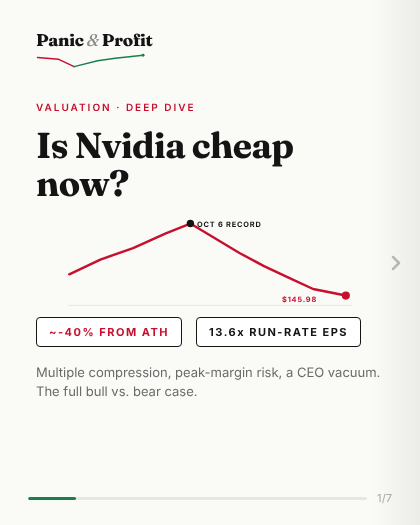
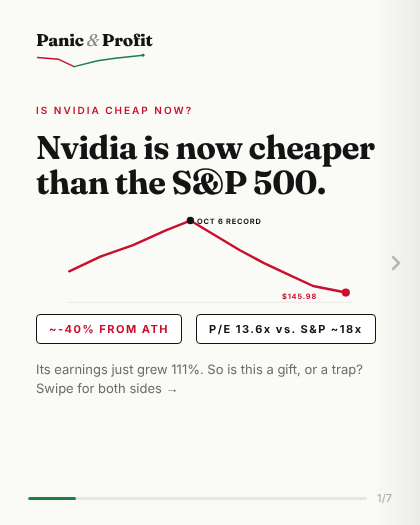
Nvidia carousel final: viral hooks, slides, story (Sat 18:00 Lisbon)
Claude-Session: https://claude.ai/code/session_01HEfkBjtX9jJLAwHVacHrK9

Changed region(s): [[0.0929, 0.4876, 0.8976, 0.7619], [0.0929, 0.2438, 0.8976, 0.5486], [0.0619, 0.1829, 0.4643, 0.2133]]

diff --git a/instagram/panic-and-profit/daily/2026-11-21-nvda/carousel.html b/instagram/panic-and-profit/daily/2026-11-21-nvda/carousel.html
@@ -24,19 +24,19 @@ body{background:#ECEBE6;font-family:'Inter',sans-serif;display:flex;justify-cont
 <div class="ig-header"><div class="ig-avatar">P<i>&amp;</i>P</div><div><div style="font-size:13px;font-weight:600;">panic.and.profit</div><div style="font-size:11px;color:#888;">Markets · Macro · Geopolitics</div></div></div>
 <div class="carousel-viewport"><div class="carousel-track"><div class="slide" style="background:#FAFAF7;">
 <div style="position:absolute;inset:0;padding:0 36px 52px;display:flex;flex-direction:column;justify-content:center;z-index:2;"><div style="position:absolute;top:30px;left:36px;"><div style="display:inline-block;"><div class="serif" style="font-size:17px;font-weight:800;color:#141414;letter-spacing:-0.3px;line-height:1;">Panic <span style="font-style:italic;font-weight:500;color:#8A8A8A;">&amp;</span> Profit</div><svg width="110" height="19" viewBox="0 0 300 42" fill="none" style="display:block;margin-top:4px;"><polyline points="4,10 62,15 104,35" stroke="#C8102E" stroke-width="4" stroke-linecap="round" stroke-linejoin="round"/><polyline points="104,35 168,19 216,12 292,4" stroke="#1B7F4B" stroke-width="4" stroke-linecap="round" stroke-linejoin="round"/><circle cx="292" cy="4" r="4" fill="#1B7F4B"/></svg></div></div>
-<div style="height:30px"></div><span class="sans" style="display:inline-block;font-size:10px;font-weight:600;letter-spacing:2px;color:#C8102E;margin-bottom:14px;">VALUATION · DEEP DIVE</span>
-<h1 class="serif" style="font-size:36px;font-weight:700;line-height:1.05;letter-spacing:-0.6px;color:#141414;">Is Nvidia cheap now?</h1>
+<div style="height:30px"></div><span class="sans" style="display:inline-block;font-size:10px;font-weight:600;letter-spacing:2px;color:#C8102E;margin-bottom:14px;">IS NVIDIA CHEAP NOW?</span>
+<h1 class="serif" style="font-size:33px;font-weight:700;line-height:1.05;letter-spacing:-0.6px;color:#141414;">Nvidia is now cheaper than the S&amp;P 500.</h1>
 <svg width="348" height="90" viewBox="0 0 348 110" fill="none" style="display:block;margin:14px 0 4px;">
 <line x1="0" y1="108" x2="348" y2="108" stroke="#E6E4DE" stroke-width="1"/>
 <polyline points="2,70 40,52 80,38 120,20 150,8 180,26 210,44 240,60 270,74 300,88 340,96" stroke="#C8102E" stroke-width="3" stroke-linecap="round" stroke-linejoin="round"/>
 <circle cx="150" cy="8" r="4.5" fill="#141414"/><circle cx="340" cy="96" r="5" fill="#C8102E"/>
 <text x="158" y="12" font-family="Inter" font-size="9" font-weight="700" fill="#141414" letter-spacing="1">OCT 6 RECORD</text>
 <text x="262" y="104" font-family="Inter" font-size="9" font-weight="700" fill="#C8102E" letter-spacing="1">$145.98</text></svg>
-<div style="display:flex;gap:8px;margin:6px 0 10px;"><span class="sans" style="display:inline-block;font-size:11px;font-weight:700;letter-spacing:1.5px;padding:7px 12px;border:1.5px solid #141414;border-radius:4px;background:#fff;color:#C8102E;margin:0 6px 6px 0;">~-40% FROM ATH</span><span class="sans" style="display:inline-block;font-size:11px;font-weight:700;letter-spacing:1.5px;padding:7px 12px;border:1.5px solid #141414;border-radius:4px;background:#fff;color:#141414;margin:0 6px 6px 0;">13.6x RUN-RATE EPS</span></div>
-<p class="sans" style="font-size:13px;color:#6B6B6B;line-height:1.5;">Multiple compression, peak-margin risk, a CEO vacuum. The full bull vs. bear case.</p></div>
+<div style="display:flex;gap:8px;margin:6px 0 10px;"><span class="sans" style="display:inline-block;font-size:11px;font-weight:700;letter-spacing:1.5px;padding:7px 12px;border:1.5px solid #141414;border-radius:4px;background:#fff;color:#C8102E;margin:0 6px 6px 0;">~-40% FROM ATH</span><span class="sans" style="display:inline-block;font-size:11px;font-weight:700;letter-spacing:1.5px;padding:7px 12px;border:1.5px solid #141414;border-radius:4px;background:#fff;color:#141414;margin:0 6px 6px 0;">P/E 13.6x vs. S&amp;P ~18x</span></div>
+<p class="sans" style="font-size:13px;color:#6B6B6B;line-height:1.5;">Its earnings just grew 111%. So is this a gift, or a trap? Swipe for both sides →</p></div>
 <div style="position:absolute;right:0;top:0;bottom:0;width:48px;z-index:9;display:flex;align-items:center;justify-content:center;background:linear-gradient(to right,transparent,rgba(0,0,0,0.06));"><svg width="24" height="24" viewBox="0 0 24 24" fill="none"><path d="M9 6l6 6-6 6" stroke="rgba(0,0,0,0.25)" stroke-width="2.5" stroke-linecap="round" stroke-linejoin="round"/></svg></div><div style="position:absolute;bottom:0;left:0;right:0;padding:16px 28px 20px;z-index:10;display:flex;align-items:center;gap:10px;"><div style="flex:1;height:3px;background:rgba(0,0,0,0.08);border-radius:2px;overflow:hidden;"><div style="height:100%;width:14.29%;background:#1B7F4B;border-radius:2px;"></div></div><span class="sans" style="font-size:11px;color:rgba(0,0,0,0.3);font-weight:500;">1/7</span></div></div><div class="slide" style="background:#FAFAF7;">
 <div style="position:absolute;inset:0;padding:0 36px 52px;display:flex;flex-direction:column;justify-content:flex-end;z-index:2;"><span class="sans" style="display:inline-block;font-size:10px;font-weight:600;letter-spacing:2px;color:#C8102E;margin-bottom:14px;">THE DRAWDOWN</span>
-<h2 class="serif" style="font-size:28px;font-weight:700;line-height:1.1;letter-spacing:-0.4px;color:#141414;margin-bottom:10px;">~$2 trillion of market cap gone in six weeks.</h2>
+<h2 class="serif" style="font-size:28px;font-weight:700;line-height:1.1;letter-spacing:-0.4px;color:#141414;margin-bottom:10px;">$2 trillion. Gone in six weeks.</h2>
 <div style="padding:10px 0;border-bottom:1px solid #E6E4DE;display:flex;justify-content:space-between;align-items:center;gap:12px;">
 <div><div class="sans" style="font-size:9px;font-weight:700;letter-spacing:1.5px;color:#8A8580;">CLOSE, THU NOV 19</div><div class="sans" style="font-size:11px;color:#6B6B6B;margin-top:2px;line-height:1.35;">New 52-week low. -3.3% on the day</div></div>
 <div class="serif" style="font-size:22px;font-weight:800;color:#C8102E;white-space:nowrap;">$145.98</div></div>
@@ -49,6 +49,7 @@ body{background:#ECEBE6;font-family:'Inter',sans-serif;display:flex;justify-cont
 <div style="padding:10px 0;border-bottom:1px solid #E6E4DE;display:flex;justify-content:space-between;align-items:center;gap:12px;">
 <div><div class="sans" style="font-size:9px;font-weight:700;letter-spacing:1.5px;color:#8A8580;">CATALYST 2</div><div class="sans" style="font-size:11px;color:#6B6B6B;margin-top:2px;line-height:1.35;">Can hyperscalers keep spending as free cash flow thins?</div></div>
 <div class="serif" style="font-size:22px;font-weight:800;color:#141414;white-space:nowrap;">Capex funding</div></div>
+<p class="sans" style="font-size:11.5px;font-weight:700;color:#C8102E;margin-top:10px;">But the numbers tell a different story →</p>
 <p class="sans" style="font-size:9px;color:#A09B95;margin-top:10px;">Sources: Motley Fool, TokenPost, Fortune, CNBC, Nvidia 8-K (SEC), Barclays via BigGo.</p></div>
 <div style="position:absolute;right:0;top:0;bottom:0;width:48px;z-index:9;display:flex;align-items:center;justify-content:center;background:linear-gradient(to right,transparent,rgba(0,0,0,0.06));"><svg width="24" height="24" viewBox="0 0 24 24" fill="none"><path d="M9 6l6 6-6 6" stroke="rgba(0,0,0,0.25)" stroke-width="2.5" stroke-linecap="round" stroke-linejoin="round"/></svg></div><div style="position:absolute;bottom:0;left:0;right:0;padding:16px 28px 20px;z-index:10;display:flex;align-items:center;gap:10px;"><div style="flex:1;height:3px;background:rgba(0,0,0,0.08);border-radius:2px;overflow:hidden;"><div style="height:100%;width:28.57%;background:#1B7F4B;border-radius:2px;"></div></div><span class="sans" style="font-size:11px;color:rgba(0,0,0,0.3);font-weight:500;">2/7</span></div></div><div class="slide" style="background:#FAFAF7;">
 <div style="position:absolute;inset:0;padding:0 36px 52px;display:flex;flex-direction:column;justify-content:flex-end;z-index:2;"><span class="sans" style="display:inline-block;font-size:10px;font-weight:600;letter-spacing:2px;color:#1B7F4B;margin-bottom:14px;">THE FUNDAMENTALS: Q3 FY27</span>
@@ -68,6 +69,7 @@ body{background:#ECEBE6;font-family:'Inter',sans-serif;display:flex;justify-cont
 <div style="padding:10px 0;border-bottom:1px solid #E6E4DE;display:flex;justify-content:space-between;align-items:center;gap:12px;">
 <div><div class="sans" style="font-size:9px;font-weight:700;letter-spacing:1.5px;color:#8A8580;">Q4 GUIDE</div><div class="sans" style="font-size:11px;color:#6B6B6B;margin-top:2px;line-height:1.35;">Assumes $0 China data-center compute</div></div>
 <div class="serif" style="font-size:22px;font-weight:800;color:#141414;white-space:nowrap;">$130B ±3%</div></div>
+<p class="sans" style="font-size:11.5px;font-weight:700;color:#C8102E;margin-top:10px;">So how cheap is it, really? →</p>
 <p class="sans" style="font-size:9px;color:#A09B95;margin-top:10px;">Source: Nvidia Q3 FY2027 release & CFO commentary (Nov 17, 2026); TradingKey, StockTitan.</p></div>
 <div style="position:absolute;right:0;top:0;bottom:0;width:48px;z-index:9;display:flex;align-items:center;justify-content:center;background:linear-gradient(to right,transparent,rgba(0,0,0,0.06));"><svg width="24" height="24" viewBox="0 0 24 24" fill="none"><path d="M9 6l6 6-6 6" stroke="rgba(0,0,0,0.25)" stroke-width="2.5" stroke-linecap="round" stroke-linejoin="round"/></svg></div><div style="position:absolute;bottom:0;left:0;right:0;padding:16px 28px 20px;z-index:10;display:flex;align-items:center;gap:10px;"><div style="flex:1;height:3px;background:rgba(0,0,0,0.08);border-radius:2px;overflow:hidden;"><div style="height:100%;width:42.86%;background:#1B7F4B;border-radius:2px;"></div></div><span class="sans" style="font-size:11px;color:rgba(0,0,0,0.3);font-weight:500;">3/7</span></div></div><div class="slide" style="background:#FAFAF7;">
 <div style="position:absolute;inset:0;padding:0 36px 52px;display:flex;flex-direction:column;justify-content:flex-end;z-index:2;"><span class="sans" style="display:inline-block;font-size:10px;font-weight:600;letter-spacing:2px;color:#1B7F4B;margin-bottom:14px;">THE MULTIPLE</span>
@@ -81,6 +83,7 @@ body{background:#ECEBE6;font-family:'Inter',sans-serif;display:flex;justify-cont
 <div class="sans" style="font-size:10px;color:#8A8580;margin-top:3px;">FactSet, Nov 5-13</div></div>
 <div style="display:flex;gap:10px;margin-top:8px;"><div style="flex:1;border:1px solid #E6E4DE;border-radius:10px;padding:10px;background:#fff;"><div class="sans" style="font-size:9px;font-weight:700;letter-spacing:1.5px;color:#1B7F4B;">IMPLIED PEG</div><div class="serif" style="font-size:20px;font-weight:800;color:#141414;">~0.12</div><div class="sans" style="font-size:9.5px;color:#8A8580;">13.6x / 111% EPS growth</div></div>
 <div style="flex:1;border:1px solid #E6E4DE;border-radius:10px;padding:10px;background:#fff;"><div class="sans" style="font-size:9px;font-weight:700;letter-spacing:1.5px;color:#C8102E;">EARNINGS YIELD</div><div class="serif" style="font-size:20px;font-weight:800;color:#141414;">~7.3%</div><div class="sans" style="font-size:9.5px;color:#8A8580;">vs. ~5% on 10-year Treasuries</div></div></div>
+<p class="sans" style="font-size:11.5px;font-weight:700;color:#C8102E;margin-top:10px;">Too good to be true? The bear case →</p>
 <p class="sans" style="font-size:9px;color:#A09B95;margin-top:10px;">Our math from Nvidia's reported EPS. Sources: Benzinga, Crypto Briefing, Motley Fool, FactSet.</p></div>
 <div style="position:absolute;right:0;top:0;bottom:0;width:48px;z-index:9;display:flex;align-items:center;justify-content:center;background:linear-gradient(to right,transparent,rgba(0,0,0,0.06));"><svg width="24" height="24" viewBox="0 0 24 24" fill="none"><path d="M9 6l6 6-6 6" stroke="rgba(0,0,0,0.25)" stroke-width="2.5" stroke-linecap="round" stroke-linejoin="round"/></svg></div><div style="position:absolute;bottom:0;left:0;right:0;padding:16px 28px 20px;z-index:10;display:flex;align-items:center;gap:10px;"><div style="flex:1;height:3px;background:rgba(0,0,0,0.08);border-radius:2px;overflow:hidden;"><div style="height:100%;width:57.14%;background:#1B7F4B;border-radius:2px;"></div></div><span class="sans" style="font-size:11px;color:rgba(0,0,0,0.3);font-weight:500;">4/7</span></div></div><div class="slide" style="background:#FAFAF7;">
 <div style="position:absolute;inset:0;padding:0 36px 52px;display:flex;flex-direction:column;justify-content:flex-end;z-index:2;"><span class="sans" style="display:inline-block;font-size:10px;font-weight:600;letter-spacing:2px;color:#141414;margin-bottom:14px;">BULL CASE vs. BEAR CASE</span>
@@ -93,10 +96,10 @@ body{background:#ECEBE6;font-family:'Inter',sans-serif;display:flex;justify-cont
 <div class="sans" style="font-size:10px;font-weight:800;letter-spacing:2px;color:#C8102E;margin-bottom:6px;">TRAP</div>
 <ul class="sans" style="font-size:10.5px;color:#141414;line-height:1.38;padding-left:13px;"><li style="margin:0 0 6px 0;">Cyclical math: low P/E at <b>peak</b> E is the classic semis trap</li><li style="margin:0 0 6px 0;">GM guide down ~340 bps to 71-72%</li><li style="margin:0 0 6px 0;">Capex funded by thinning FCF; a 2027 cut hits E, not just P</li><li style="margin:0 0 6px 0;">Key-person risk + vendor financing of customers</li></ul></div>
 </div>
-<p class="sans" style="font-size:12px;color:#555;line-height:1.5;margin-top:12px;">The debate isn't the P. It's the <b>durability of the E</b>: is FY27 a plateau or a peak?</p>
+<p class="sans" style="font-size:12px;color:#555;line-height:1.5;margin-top:10px;">The debate isn't the P. It's the <b>durability of the E</b>: is FY27 a plateau or a peak?</p>
 <p class="sans" style="font-size:9px;color:#A09B95;margin-top:10px;">Sources: Nvidia guidance, Barclays, Fortune, CNBC, Yahoo Finance.</p></div>
 <div style="position:absolute;right:0;top:0;bottom:0;width:48px;z-index:9;display:flex;align-items:center;justify-content:center;background:linear-gradient(to right,transparent,rgba(0,0,0,0.06));"><svg width="24" height="24" viewBox="0 0 24 24" fill="none"><path d="M9 6l6 6-6 6" stroke="rgba(0,0,0,0.25)" stroke-width="2.5" stroke-linecap="round" stroke-linejoin="round"/></svg></div><div style="position:absolute;bottom:0;left:0;right:0;padding:16px 28px 20px;z-index:10;display:flex;align-items:center;gap:10px;"><div style="flex:1;height:3px;background:rgba(0,0,0,0.08);border-radius:2px;overflow:hidden;"><div style="height:100%;width:71.43%;background:#1B7F4B;border-radius:2px;"></div></div><span class="sans" style="font-size:11px;color:rgba(0,0,0,0.3);font-weight:500;">5/7</span></div></div><div class="slide" style="background:#FAFAF7;">
-<div style="position:absolute;inset:0;padding:0 36px 52px;display:flex;flex-direction:column;justify-content:flex-end;z-index:2;"><span class="sans" style="display:inline-block;font-size:10px;font-weight:600;letter-spacing:2px;color:#1B7F4B;margin-bottom:14px;">WHAT LONG-TERM INVESTORS TRACK</span>
+<div style="position:absolute;inset:0;padding:0 36px 52px;display:flex;flex-direction:column;justify-content:flex-end;z-index:2;"><span class="sans" style="display:inline-block;font-size:10px;font-weight:600;letter-spacing:2px;color:#1B7F4B;margin-bottom:14px;">📌 SAVE THIS CHECKLIST</span>
 <h2 class="serif" style="font-size:28px;font-weight:700;line-height:1.1;letter-spacing:-0.4px;color:#141414;margin-bottom:10px;">4 signals that settle the debate</h2>
 <div style="display:flex;align-items:flex-start;gap:14px;padding:9px 0;border-bottom:1px solid #E6E4DE;">
 <span class="serif" style="font-size:26px;font-weight:300;color:#1B7F4B;min-width:34px;line-height:1;">01</span>

diff --git a/instagram/panic-and-profit/daily/2026-11-21-nvda/build.py b/instagram/panic-and-profit/daily/2026-11-21-nvda/build.py
@@ -32,6 +32,7 @@ def slide(i, bg, body, light, last=False, justify="flex-end", extra=""):
 {'' if last else arrow(light)}{bar(i, light)}</div>'''
 
 slides=[]
+def TEASE(t): return f'<p class="sans" style="font-size:11.5px;font-weight:700;color:{RED};margin-top:10px;">{t} →</p>'
 H2=lambda t,c=None: f'<h2 class="serif" style="font-size:28px;font-weight:700;line-height:1.1;letter-spacing:-0.4px;color:{c or INK};margin-bottom:10px;">{t}</h2>'
 SUB=lambda t: f'<p class="sans" style="font-size:13px;color:#6B6B6B;line-height:1.5;margin-bottom:14px;">{t}</p>'
 SRC=lambda t: f'<p class="sans" style="font-size:9px;color:#A09B95;margin-top:10px;">{t}</p>'
@@ -45,11 +46,11 @@ spark=f"""<svg width="348" height="90" viewBox="0 0 348 110" fill="none" style="
 <text x="158" y="12" font-family="Inter" font-size="9" font-weight="700" fill="{INK}" letter-spacing="1">OCT 6 RECORD</text>
 <text x="262" y="104" font-family="Inter" font-size="9" font-weight="700" fill="{RED}" letter-spacing="1">$145.98</text></svg>"""
 b1=f"""<div style="position:absolute;top:30px;left:36px;">{logo(17,line_w=110,tagline=False)}</div>
-<div style="height:30px"></div>{tag("VALUATION · DEEP DIVE", RED)}
-<h1 class="serif" style="font-size:36px;font-weight:700;line-height:1.05;letter-spacing:-0.6px;color:{INK};">Is Nvidia cheap now?</h1>
+<div style="height:30px"></div>{tag("IS NVIDIA CHEAP NOW?", RED)}
+<h1 class="serif" style="font-size:33px;font-weight:700;line-height:1.05;letter-spacing:-0.6px;color:{INK};">Nvidia is now cheaper than the S&amp;P 500.</h1>
 {spark}
-<div style="display:flex;gap:8px;margin:6px 0 10px;">{chip("~-40% FROM ATH",RED)}{chip("13.6x RUN-RATE EPS",INK)}</div>
-<p class="sans" style="font-size:13px;color:#6B6B6B;line-height:1.5;">Multiple compression, peak-margin risk, a CEO vacuum. The full bull vs. bear case.</p>"""
+<div style="display:flex;gap:8px;margin:6px 0 10px;">{chip("~-40% FROM ATH",RED)}{chip("P/E 13.6x vs. S&amp;P ~18x",INK)}</div>
+<p class="sans" style="font-size:13px;color:#6B6B6B;line-height:1.5;">Its earnings just grew 111%. So is this a gift, or a trap? Swipe for both sides →</p>"""
 slides.append(slide(0,LBG,b1,True,justify="center"))
 
 # 2 THE DRAWDOWN
@@ -58,11 +59,12 @@ def stat(lbl,val,sub,col=INK):
 <div><div class="sans" style="font-size:9px;font-weight:700;letter-spacing:1.5px;color:#8A8580;">{lbl}</div><div class="sans" style="font-size:11px;color:#6B6B6B;margin-top:2px;line-height:1.35;">{sub}</div></div>
 <div class="serif" style="font-size:22px;font-weight:800;color:{col};white-space:nowrap;">{val}</div></div>"""
 b2=f"""{tag("THE DRAWDOWN", RED)}
-{H2("~$2 trillion of market cap gone in six weeks.")}
+{H2("$2 trillion. Gone in six weeks.")}
 {stat("CLOSE, THU NOV 19","$145.98","New 52-week low. -3.3% on the day",RED)}
 {stat("FROM THE OCT 6 RECORD","~-40%","The largest dollar wipeout in a condensed window on record (Fortune)",RED)}
 {stat("CATALYST 1","CEO exit","Huang out Nov 12; CFO Colette Kress interim CEO, search ongoing")}
 {stat("CATALYST 2","Capex funding","Can hyperscalers keep spending as free cash flow thins?")}
+{TEASE("But the numbers tell a different story")}
 {SRC("Sources: Motley Fool, TokenPost, Fortune, CNBC, Nvidia 8-K (SEC), Barclays via BigGo.")}"""
 slides.append(slide(1,LBG,b2,True))
 
@@ -74,6 +76,7 @@ b3=f"""{tag("THE FUNDAMENTALS: Q3 FY27", P)}
 {stat("NON-GAAP EPS","$2.68","+111% y/y vs. $2.47 consensus",P)}
 {stat("GROSS MARGIN","74.9%","Non-GAAP. Q4 guide: 71-72%",INK)}
 {stat("Q4 GUIDE","$130B ±3%","Assumes $0 China data-center compute",INK)}
+{TEASE("So how cheap is it, really?")}
 {SRC("Source: Nvidia Q3 FY2027 release & CFO commentary (Nov 17, 2026); TradingKey, StockTitan.")}"""
 slides.append(slide(2,LBG,b3,True))
 
@@ -89,6 +92,7 @@ b4=f"""{tag("THE MULTIPLE", P)}
 {bar_row("S&amp;P 500 · FORWARD 12M","17.7-18.3x",18/20*100,INK,"FactSet, Nov 5-13")}
 <div style="display:flex;gap:10px;margin-top:8px;"><div style="flex:1;border:1px solid {LBR};border-radius:10px;padding:10px;background:#fff;"><div class="sans" style="font-size:9px;font-weight:700;letter-spacing:1.5px;color:{P};">IMPLIED PEG</div><div class="serif" style="font-size:20px;font-weight:800;color:{INK};">~0.12</div><div class="sans" style="font-size:9.5px;color:#8A8580;">13.6x / 111% EPS growth</div></div>
 <div style="flex:1;border:1px solid {LBR};border-radius:10px;padding:10px;background:#fff;"><div class="sans" style="font-size:9px;font-weight:700;letter-spacing:1.5px;color:{RED};">EARNINGS YIELD</div><div class="serif" style="font-size:20px;font-weight:800;color:{INK};">~7.3%</div><div class="sans" style="font-size:9.5px;color:#8A8580;">vs. ~5% on 10-year Treasuries</div></div></div>
+{TEASE("Too good to be true? The bear case")}
 {SRC("Our math from Nvidia's reported EPS. Sources: Benzinga, Crypto Briefing, Motley Fool, FactSet.")}"""
 slides.append(slide(3,LBG,b4,True))
 
@@ -104,7 +108,7 @@ b5=f"""{tag("BULL CASE vs. BEAR CASE", INK)}
 {case("CHEAP",P,["Hypergrowth at a value multiple: PEG ~0.1","Guide implies +12% q/q on Rubin ramp","Moat: CUDA + full-stack systems","Below-market P/E with ~75% margins"])}
 {case("TRAP",RED,["Cyclical math: low P/E at <b>peak</b> E is the classic semis trap","GM guide down ~340 bps to 71-72%","Capex funded by thinning FCF; a 2027 cut hits E, not just P","Key-person risk + vendor financing of customers"])}
 </div>
-<p class="sans" style="font-size:12px;color:#555;line-height:1.5;margin-top:12px;">The debate isn't the P. It's the <b>durability of the E</b>: is FY27 a plateau or a peak?</p>
+<p class="sans" style="font-size:12px;color:#555;line-height:1.5;margin-top:10px;">The debate isn't the P. It's the <b>durability of the E</b>: is FY27 a plateau or a peak?</p>
 {SRC("Sources: Nvidia guidance, Barclays, Fortune, CNBC, Yahoo Finance.")}"""
 slides.append(slide(4,LBG,b5,True))
 
@@ -113,7 +117,7 @@ def step(n,t,d):
     return f"""<div style="display:flex;align-items:flex-start;gap:14px;padding:9px 0;border-bottom:1px solid {LBR};">
 <span class="serif" style="font-size:26px;font-weight:300;color:{P};min-width:34px;line-height:1;">{n}</span>
 <div><div class="sans" style="font-size:14px;font-weight:600;color:{INK};">{t}</div><div class="sans" style="font-size:12px;color:#8A8580;line-height:1.45;margin-top:2px;">{d}</div></div></div>"""
-b6=f"""{tag("WHAT LONG-TERM INVESTORS TRACK", P)}
+b6=f"""{tag("📌 SAVE THIS CHECKLIST", P)}
 {H2("4 signals that settle the debate")}
 {step("01","Hyperscaler 2027 capex guides","The demand side of Nvidia's E. Cuts = estimate cuts.")}
 {step("02","Gross-margin trajectory","Holding 71-72% through the Rubin ramp, or eroding?")}
